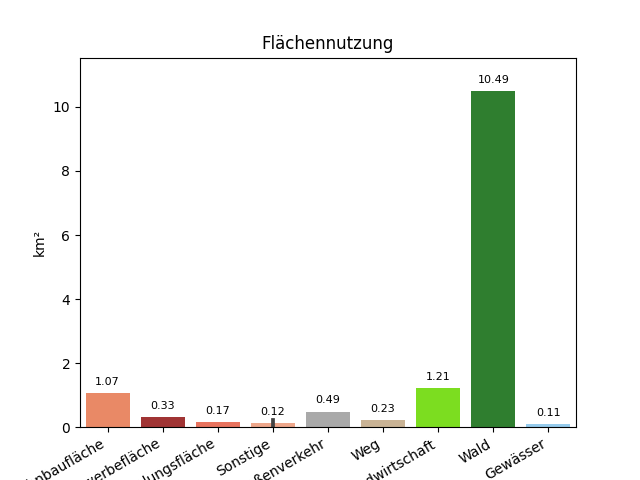
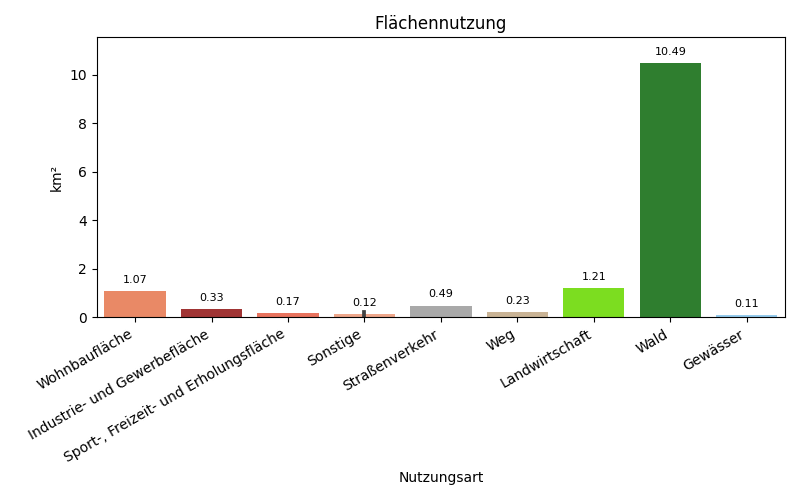
data_03 Methode f. vvj Analyse + Graph Flächennutzung angepasst

diff --git a/data_03_ergebnis.py b/data_03_ergebnis.py
@@ -74,6 +74,84 @@ def gesamtplan_erg(df):
 
     return(dic)
 
+def gesamtplan_vvj(df):
+   dic = {
+      "lfdE_pl_vvj" : df.loc[(df["sk"]<470000)]["planvvj"].sum(),	                
+      "lfdE_je_vvj" : df.loc[(df["sk"]<470000)]["rgergvvj"].sum(),	
+      "lfdE_aw_vvj" : df.loc[(df["sk"]<470000)]["rgergvvj"].sum() - df.loc[(df["sk"]<470000)]["planvvj"].sum(),
+      "lfdA_pl_vvj" : df.loc[(df["sk"]<570000) & (df["sk"]>500000)]["planvvj"].sum(),	
+      "lfdA_je_vvj" : df.loc[(df["sk"]<570000) & (df["sk"]>500000)]["rgergvvj"].sum(),		
+      "lfdA_aw_vvj" : df.loc[(df["sk"]<570000) & (df["sk"]>500000)]["rgergvvj"].sum() - df.loc[(df["sk"]<570000) & (df["sk"]>500000)]["planvvj"].sum(),	
+      "lfdSaldo_pl_vvj" : 	df.loc[(df["sk"]<500000)]["planvvj"].sum() - df.loc[(df["sk"]<600000) & (df["sk"]>500000)]["planvvj"].sum(),	
+      "lfdSaldo_je_vvj" : 	df.loc[(df["sk"]<500000)]["rgergvvj"].sum() - df.loc[(df["sk"]<600000) & (df["sk"]>500000)]["rgergvvj"].sum(),
+      "lfdSaldo_aw_vvj" :  df.loc[(df["sk"]<500000)]["rgergvvj"].sum() - df.loc[(df["sk"]<500000)]["planvvj"].sum() - df.loc[(df["sk"]<600000) & (df["sk"]>500000)]["rgergvvj"].sum() - df.loc[(df["sk"]<600000) & (df["sk"]>500000)]["planvvj"].sum(),
+      "zinsE_pl_vvj" : df.loc[(df["sk"]<480000) & (df["sk"]>470000)]["planvvj"].sum(),	
+      "zinsE_je_vvj" : df.loc[(df["sk"]<480000) & (df["sk"]>470000)]["rgergvvj"].sum(),
+      "zinsE_aw_vvj" : df.loc[(df["sk"]<480000) & (df["sk"]>470000)]["rgergvvj"].sum() - df.loc[(df["sk"]<580000) & (df["sk"]>570000)]["planvvj"].sum(),
+      "zinsA_pl_vvj" : df.loc[(df["sk"]<580000) & (df["sk"]>570000)]["planvvj"].sum(),	
+      "zinsA_je_vvj" : df.loc[(df["sk"]<580000) & (df["sk"]>570000)]["rgergvvj"].sum(),
+      "zinsA_aw_vvj" : df.loc[(df["sk"]<580000) & (df["sk"]>570000)]["rgergvvj"].sum() - df.loc[(df["sk"]<580000) & (df["sk"]>570000)]["planvvj"].sum(),
+      "zinsSaldo_pl_vvj" : df.loc[(df["sk"]<480000) & (df["sk"]>470000)]["planvvj"].sum() - df.loc[(df["sk"]<580000) & (df["sk"]>570000)]["planvvj"].sum(),		
+      "zinsSaldo_je_vvj" :  df.loc[(df["sk"]<480000) & (df["sk"]>470000)]["rgergvvj"].sum() - df.loc[(df["sk"]<580000) & (df["sk"]>570000)]["rgergvvj"].sum(),
+      "zinsSaldo_aw_vvj" : (df.loc[(df["sk"]<480000) & (df["sk"]>470000)]["rgergvvj"].sum() - df.loc[(df["sk"]<580000) & (df["sk"]>570000)]["planvvj"].sum()) - (df.loc[(df["sk"]<580000) & (df["sk"]>570000)]["rgergvvj"].sum() - df.loc[(df["sk"]<580000) & (df["sk"]>570000)]["planvvj"].sum()),
+      "ordErg_pl_vvj" : df.loc[(df["sk"]<500000)]["planvvj"].sum() - df.loc[(df["sk"]<600000) & (df["sk"]>500000)]["planvvj"].sum() + df.loc[(df["sk"]<480000) & (df["sk"]>470000)]["planvvj"].sum() - df.loc[(df["sk"]<580000) & (df["sk"]>570000)]["planvvj"].sum(),
+      "ordErg_je_vvj" : df.loc[(df["sk"]<500000)]["rgergvvj"].sum() - df.loc[(df["sk"]<600000) & (df["sk"]>500000)]["rgergvvj"].sum() + df.loc[(df["sk"]<480000) & (df["sk"]>470000)]["rgergvvj"].sum() - df.loc[(df["sk"]<580000) & (df["sk"]>570000)]["rgergvvj"].sum(),
+      "ordErg_aw_vvj" : df.loc[(df["sk"]<500000)]["rgergvvj"].sum() - df.loc[(df["sk"]<500000)]["planvvj"].sum() - df.loc[(df["sk"]<600000) & (df["sk"]>500000)]["rgergvvj"].sum() - df.loc[(df["sk"]<600000) & (df["sk"]>500000)]["planvvj"].sum() + (df.loc[(df["sk"]<480000) & (df["sk"]>470000)]["rgergvvj"].sum() - df.loc[(df["sk"]<580000) & (df["sk"]>570000)]["planvvj"].sum()) - (df.loc[(df["sk"]<580000) & (df["sk"]>570000)]["rgergvvj"].sum() - df.loc[(df["sk"]<580000) & (df["sk"]>570000)]["planvvj"].sum()),
+      "erg_pl_vvj" : df.loc[(df["sk"]<600000)]["planvvj"].sum(),
+      "erg_je_vvj" : df.loc[(df["sk"]<600000)]["rgergvvj"].sum(),
+      "erg_aw_vvj" : df.loc[(df["sk"]<600000)]["rgergvvj"].sum() - df.loc[(df["sk"]<600000)]["planvvj"].sum(),
+      "osf_pl_vvj" : df.loc[(df["sk"]<680000) & (df["sk"]>600000)]["planvvj"].sum() - df.loc[(df["sk"]<780000) & (df["sk"]>700000)]["planvvj"].sum(),	
+      "osf_je_vvj" : df.loc[(df["sk"]<680000) & (df["sk"]>600000)]["rgergvvj"].sum() - df.loc[(df["sk"]<780000) & (df["sk"]>700000)]["rgergvvj"].sum(),	
+      "osf_aw_vvj" : df.loc[(df["sk"]<680000) & (df["sk"]>600000)]["rgergvvj"].sum() - df.loc[(df["sk"]<780000) & (df["sk"]>700000)]["rgergvvj"].sum() - df.loc[(df["sk"]<680000) & (df["sk"]>600000)]["planvvj"].sum() - df.loc[(df["sk"]<780000) & (df["sk"]>700000)]["planvvj"].sum(),
+      "e1inv_pl_vvj" : df.loc[(df["sk"]<682000) & (df["sk"]>681000)]["planvvj"].sum(),
+      "e1inv_je_vvj" : df.loc[(df["sk"]<682000) & (df["sk"]>681000)]["rgergvvj"].sum(),
+      "e1inv_aw_vvj" : df.loc[(df["sk"]<682000) & (df["sk"]>681000)]["rgergvvj"].sum() - df.loc[(df["sk"]<682000) & (df["sk"]>681000)]["planvvj"].sum(),
+      "e2inv_pl_vvj" : df.loc[(df["sk"]<683000) & (df["sk"]>682000)]["planvvj"].sum(),
+      "e2inv_je_vvj" : df.loc[(df["sk"]<683000) & (df["sk"]>682000)]["rgergvvj"].sum(),
+      "e2inv_aw_vvj" : df.loc[(df["sk"]<683000) & (df["sk"]>682000)]["rgergvvj"].sum() - df.loc[(df["sk"]<683000) & (df["sk"]>682000)]["planvvj"].sum(),
+      "e3inv_pl_vvj" : df.loc[(df["sk"]<690000) & (df["sk"]>683000)]["planvvj"].sum(),
+      "e3inv_je_vvj" : df.loc[(df["sk"]<690000) & (df["sk"]>683000)]["rgergvvj"].sum(),
+      "e3inv_aw_vvj" : df.loc[(df["sk"]<690000) & (df["sk"]>683000)]["rgergvvj"].sum() - df.loc[(df["sk"]<690000) & (df["sk"]>683000)]["planvvj"].sum(),
+      "esuminv_pl_vvj" : df.loc[(df["sk"]<690000) & (df["sk"]>680000)]["planvvj"].sum(),
+      "esuminv_je_vvj" : df.loc[(df["sk"]<690000) & (df["sk"]>680000)]["rgergvvj"].sum(),
+      "esuminv_aw_vvj" : df.loc[(df["sk"]<690000) & (df["sk"]>680000)]["rgergvvj"].sum() - df.loc[(df["sk"]<690000) & (df["sk"]>680000)]["planvvj"].sum(),
+      "a1inv_pl_vvj" : df.loc[(df["sk"]<785000) & (df["sk"]>780000)]["planvvj"].sum(),
+      "a1inv_je_vvj" : df.loc[(df["sk"]<785000) & (df["sk"]>780000)]["rgergvvj"].sum(),
+      "a1inv_aw_vvj" : df.loc[(df["sk"]<785000) & (df["sk"]>780000)]["rgergvvj"].sum() - df.loc[(df["sk"]<785000) & (df["sk"]>780000)]["planvvj"].sum(),
+      "a2inv_pl_vvj" : df.loc[(df["sk"]<786000) & (df["sk"]>785000)]["planvvj"].sum(),
+      "a2inv_je_vvj" : df.loc[(df["sk"]<786000) & (df["sk"]>785000)]["rgergvvj"].sum(),
+      "a2inv_aw_vvj" : df.loc[(df["sk"]<786000) & (df["sk"]>785000)]["rgergvvj"].sum() - df.loc[(df["sk"]<786000) & (df["sk"]>785000)]["planvvj"].sum(),
+      "a3inv_pl_vvj" : df.loc[(df["sk"]<788000) & (df["sk"]>786000)]["planvvj"].sum(),
+      "a3inv_je_vvj" : df.loc[(df["sk"]<788000) & (df["sk"]>786000)]["rgergvvj"].sum(),
+      "a3inv_aw_vvj" : df.loc[(df["sk"]<788000) & (df["sk"]>786000)]["rgergvvj"].sum() - df.loc[(df["sk"]<788000) & (df["sk"]>786000)]["planvvj"].sum(),
+      "a4inv_pl_vvj" : df.loc[(df["sk"]<790000) & (df["sk"]>789000)]["planvvj"].sum(),
+      "a4inv_je_vvj" : df.loc[(df["sk"]<790000) & (df["sk"]>789000)]["rgergvvj"].sum(),
+      "a4inv_aw_vvj" : df.loc[(df["sk"]<790000) & (df["sk"]>789000)]["rgergvvj"].sum() - df.loc[(df["sk"]<786000) & (df["sk"]>785000)]["planvvj"].sum(),
+      "asuminv_pl_vvj" : df.loc[(df["sk"]<790000) & (df["sk"]>780000)]["planvvj"].sum(),
+      "asuminv_je_vvj" : df.loc[(df["sk"]<790000) & (df["sk"]>780000)]["rgergvvj"].sum(),
+      "asuminv_aw_vvj" : df.loc[(df["sk"]<790000) & (df["sk"]>780000)]["rgergvvj"].sum() - df.loc[(df["sk"]<790000) & (df["sk"]>780000)]["planvvj"].sum(),
+      "saldoinv_pl_vvj" : df.loc[(df["sk"]<690000) & (df["sk"]>680000)]["planvvj"].sum()- df.loc[(df["sk"]<790000) & (df["sk"]>780000)]["planvvj"].sum(),
+      "saldoinv_je_vvj" : df.loc[(df["sk"]<690000) & (df["sk"]>680000)]["rgergvvj"].sum()- df.loc[(df["sk"]<790000) & (df["sk"]>780000)]["rgergvvj"].sum(),
+      "saldoinv_aw_vvj" : df.loc[(df["sk"]<690000) & (df["sk"]>680000)]["rgergvvj"].sum()- df.loc[(df["sk"]<790000) & (df["sk"]>780000)]["rgergvvj"].sum() - (df.loc[(df["sk"]<690000) & (df["sk"]>680000)]["planvvj"].sum()- df.loc[(df["sk"]<790000) & (df["sk"]>780000)]["planvvj"].sum()),
+      "fin_dif_pl_vvj" : df.loc[(df["sk"]<690000) & (df["sk"]>600000)]["planvvj"].sum()- df.loc[(df["sk"]<790000) & (df["sk"]>700000)]["planvvj"].sum(),
+      "fin_dif_je_vvj" : df.loc[(df["sk"]<690000) & (df["sk"]>600000)]["rgergvvj"].sum()- df.loc[(df["sk"]<790000) & (df["sk"]>700000)]["rgergvvj"].sum(),
+      "fin_dif_aw_vvj" : df.loc[(df["sk"]<690000) & (df["sk"]>600000)]["rgergvvj"].sum()- df.loc[(df["sk"]<790000) & (df["sk"]>700000)]["rgergvvj"].sum() - (df.loc[(df["sk"]<690000) & (df["sk"]>600000)]["planvvj"].sum()- df.loc[(df["sk"]<790000) & (df["sk"]>700000)]["planvvj"].sum()),
+      "ekred_pl_vvj" : df.loc[(df["sk"]<700000) & (df["sk"]>690000)]["planvvj"].sum(),
+      "ekred_je_vvj" : df.loc[(df["sk"]<700000) & (df["sk"]>690000)]["rgergvvj"].sum(),
+      "ekred_aw_vvj" : df.loc[(df["sk"]<700000) & (df["sk"]>690000)]["rgergvvj"].sum() - df.loc[(df["sk"]<700000) & (df["sk"]>690000)]["planvvj"].sum(),
+      "akred_pl_vvj" : df.loc[(df["sk"]<800000) & (df["sk"]>790000)]["planvvj"].sum(),
+      "akred_je_vvj" : df.loc[(df["sk"]<800000) & (df["sk"]>790000)]["rgergvvj"].sum(),
+      "akred_aw_vvj" : df.loc[(df["sk"]<800000) & (df["sk"]>790000)]["rgergvvj"].sum() -df.loc[(df["sk"]<800000) & (df["sk"]>790000)]["planvvj"].sum(),
+      "saldokred_pl_vvj" : df.loc[(df["sk"]<700000) & (df["sk"]>690000)]["planvvj"].sum()- df.loc[(df["sk"]<800000) & (df["sk"]>790000)]["planvvj"].sum(),
+      "saldokred_je_vvj" : df.loc[(df["sk"]<700000) & (df["sk"]>690000)]["rgergvvj"].sum()- df.loc[(df["sk"]<800000) & (df["sk"]>790000)]["rgergvvj"].sum(),
+      "saldokred_aw_vvj" : (df.loc[(df["sk"]<700000) & (df["sk"]>690000)]["rgergvvj"].sum() - df.loc[(df["sk"]<700000) & (df["sk"]>690000)]["planvvj"].sum()) - (df.loc[(df["sk"]<800000) & (df["sk"]>790000)]["rgergvvj"].sum(),df.loc[(df["sk"]<800000) & (df["sk"]>790000)]["planvvj"].sum()),
+      "ffs_pl_vvj" : df.loc[(df["sk"]<680000) & (df["sk"]>600000)]["planvvj"].sum() - df.loc[(df["sk"]<780000) & (df["sk"]>700000)]["planvvj"].sum() - df.loc[(df["sk"]<800000) & (df["sk"]>790000)]["planvvj"].sum(),
+      "ffs_je_vvj" : df.loc[(df["sk"]<680000) & (df["sk"]>600000)]["rgergvvj"].sum() - df.loc[(df["sk"]<780000) & (df["sk"]>700000)]["rgergvvj"].sum() - df.loc[(df["sk"]<800000) & (df["sk"]>790000)]["rgergvvj"].sum(),
+      "ffs_aw_vvj" : df.loc[(df["sk"]<680000) & (df["sk"]>600000)]["rgergvvj"].sum() - df.loc[(df["sk"]<780000) & (df["sk"]>700000)]["rgergvvj"].sum() - df.loc[(df["sk"]<800000) & (df["sk"]>790000)]["rgergvvj"].sum() - df.loc[(df["sk"]<680000) & (df["sk"]>600000)]["planvvj"].sum() - df.loc[(df["sk"]<780000) & (df["sk"]>700000)]["planvvj"].sum() - df.loc[(df["sk"]<800000) & (df["sk"]>790000)]["planvvj"].sum()
+   }
+   return dic
+
+
 def get_hhst_dict(df, dferl, minsk, maxsk):
     """
     Gibt ein dictionary nach Sachkonten gefiltert zurück  
@@ -287,4 +365,5 @@ def get_ilfA(df, dferl):
    return st
 
 if __name__ == "__main__":
-   print(gesamtplan_erg(xlsfile=str(pathlib.Path.cwd() / "haushalt/hhdaten/bewegungsdaten.xlsx"), hhj=2023, gde=60))
+   # print(gesamtplan_erg(xlsfile=str(pathlib.Path.cwd() / "haushalt/hhdaten/bewegungsdaten.xlsx"), hhj=2023, gde=60))
+   print(gesamtplan_vvj(di.hhdata_excelimport(xlsxfile=str(pathlib.Path.cwd() / "hhdaten/bewegungsdaten.xlsx"))))

diff --git a/graphplotter.py b/graphplotter.py
@@ -45,11 +45,14 @@ def plot_gr_popdev(xlsfile, gde, hhj):
     plt.savefig(str(pathlib.Path.cwd() / "hhdaten/plots/bev-entw.png"))
     plt.show()
 
+def plot_gr_altersgruppen(df):
+    plt.figure(figsize=(8,5))
+    df = df[(df.Grundeintrag)&(df.Nutzungsart != "Bodenfläche insgesamt")]
+
 
 
 def plot_flaechenentwicklung(df):
-     
-
+    plt.figure(figsize=(8,5)) 
     #df = pd.read_excel("Fläche.xlsx")
     df = df[(df.Grundeintrag)&(df.Nutzungsart != "Bodenfläche insgesamt")]
     #print(df)
@@ -59,7 +62,7 @@ def plot_flaechenentwicklung(df):
     colors4 = ["coral", "darkgrey", "forestgreen", "skyblue"]
     colors9 = ["coral", "firebrick", "tomato", "lightsalmon", "darkgrey", "tan", "lawngreen", "forestgreen", "lightskyblue"]
     labels = df.Nutzungsart
-
+    
     plot = sns.barplot(x = "Nutzungsart", y="km²", data=df[["Nutzungsart", "km²"]], palette = colors9)
     #print(plot)
     plt.xticks(rotation=30, ha="right")
@@ -72,12 +75,12 @@ def plot_flaechenentwicklung(df):
                    textcoords='offset points')
 
     plt.title("Flächennutzung")
+    plt.tight_layout()
+ 
 
     plt.savefig(str(pathlib.Path.cwd() / "hhdaten/plots/flaechennutzung.png"))
 
 
-
-
 if __name__ == "__main__":
     #plot_gr_popdev(xlsfile=str(pathlib.Path.cwd() / "hhdaten/grunddaten.xlsx"), gde=60, hhj=2023)
-    plot_flaechenentwicklung(di.readflaechenstatistik(xlsfile=str(pathlib.Path.cwd() / "hhdaten/grunddaten.xlsx"), gdenr=60, jahr=2022))
+    plot_flaechenentwicklung(di.readflaechenstatistik(xlsfile=str(pathlib.Path.cwd() / "hhdaten/grunddaten.xlsx"), gdenr=60, hhj=2023))

diff --git a/contextbuilder.py b/contextbuilder.py
@@ -77,6 +77,8 @@ def hh_vorbericht_01_Allgemeines(dfhhs, dfgdegrunddaten, dfewentwicklung, dfewal
     }
     return conhh_vorb_allg
 
+
+
 def hh_vorbericht_05_UebersichtErgHH(df):
     ergdict = erg.gesamtplan_erg(df)
     return ergdict
